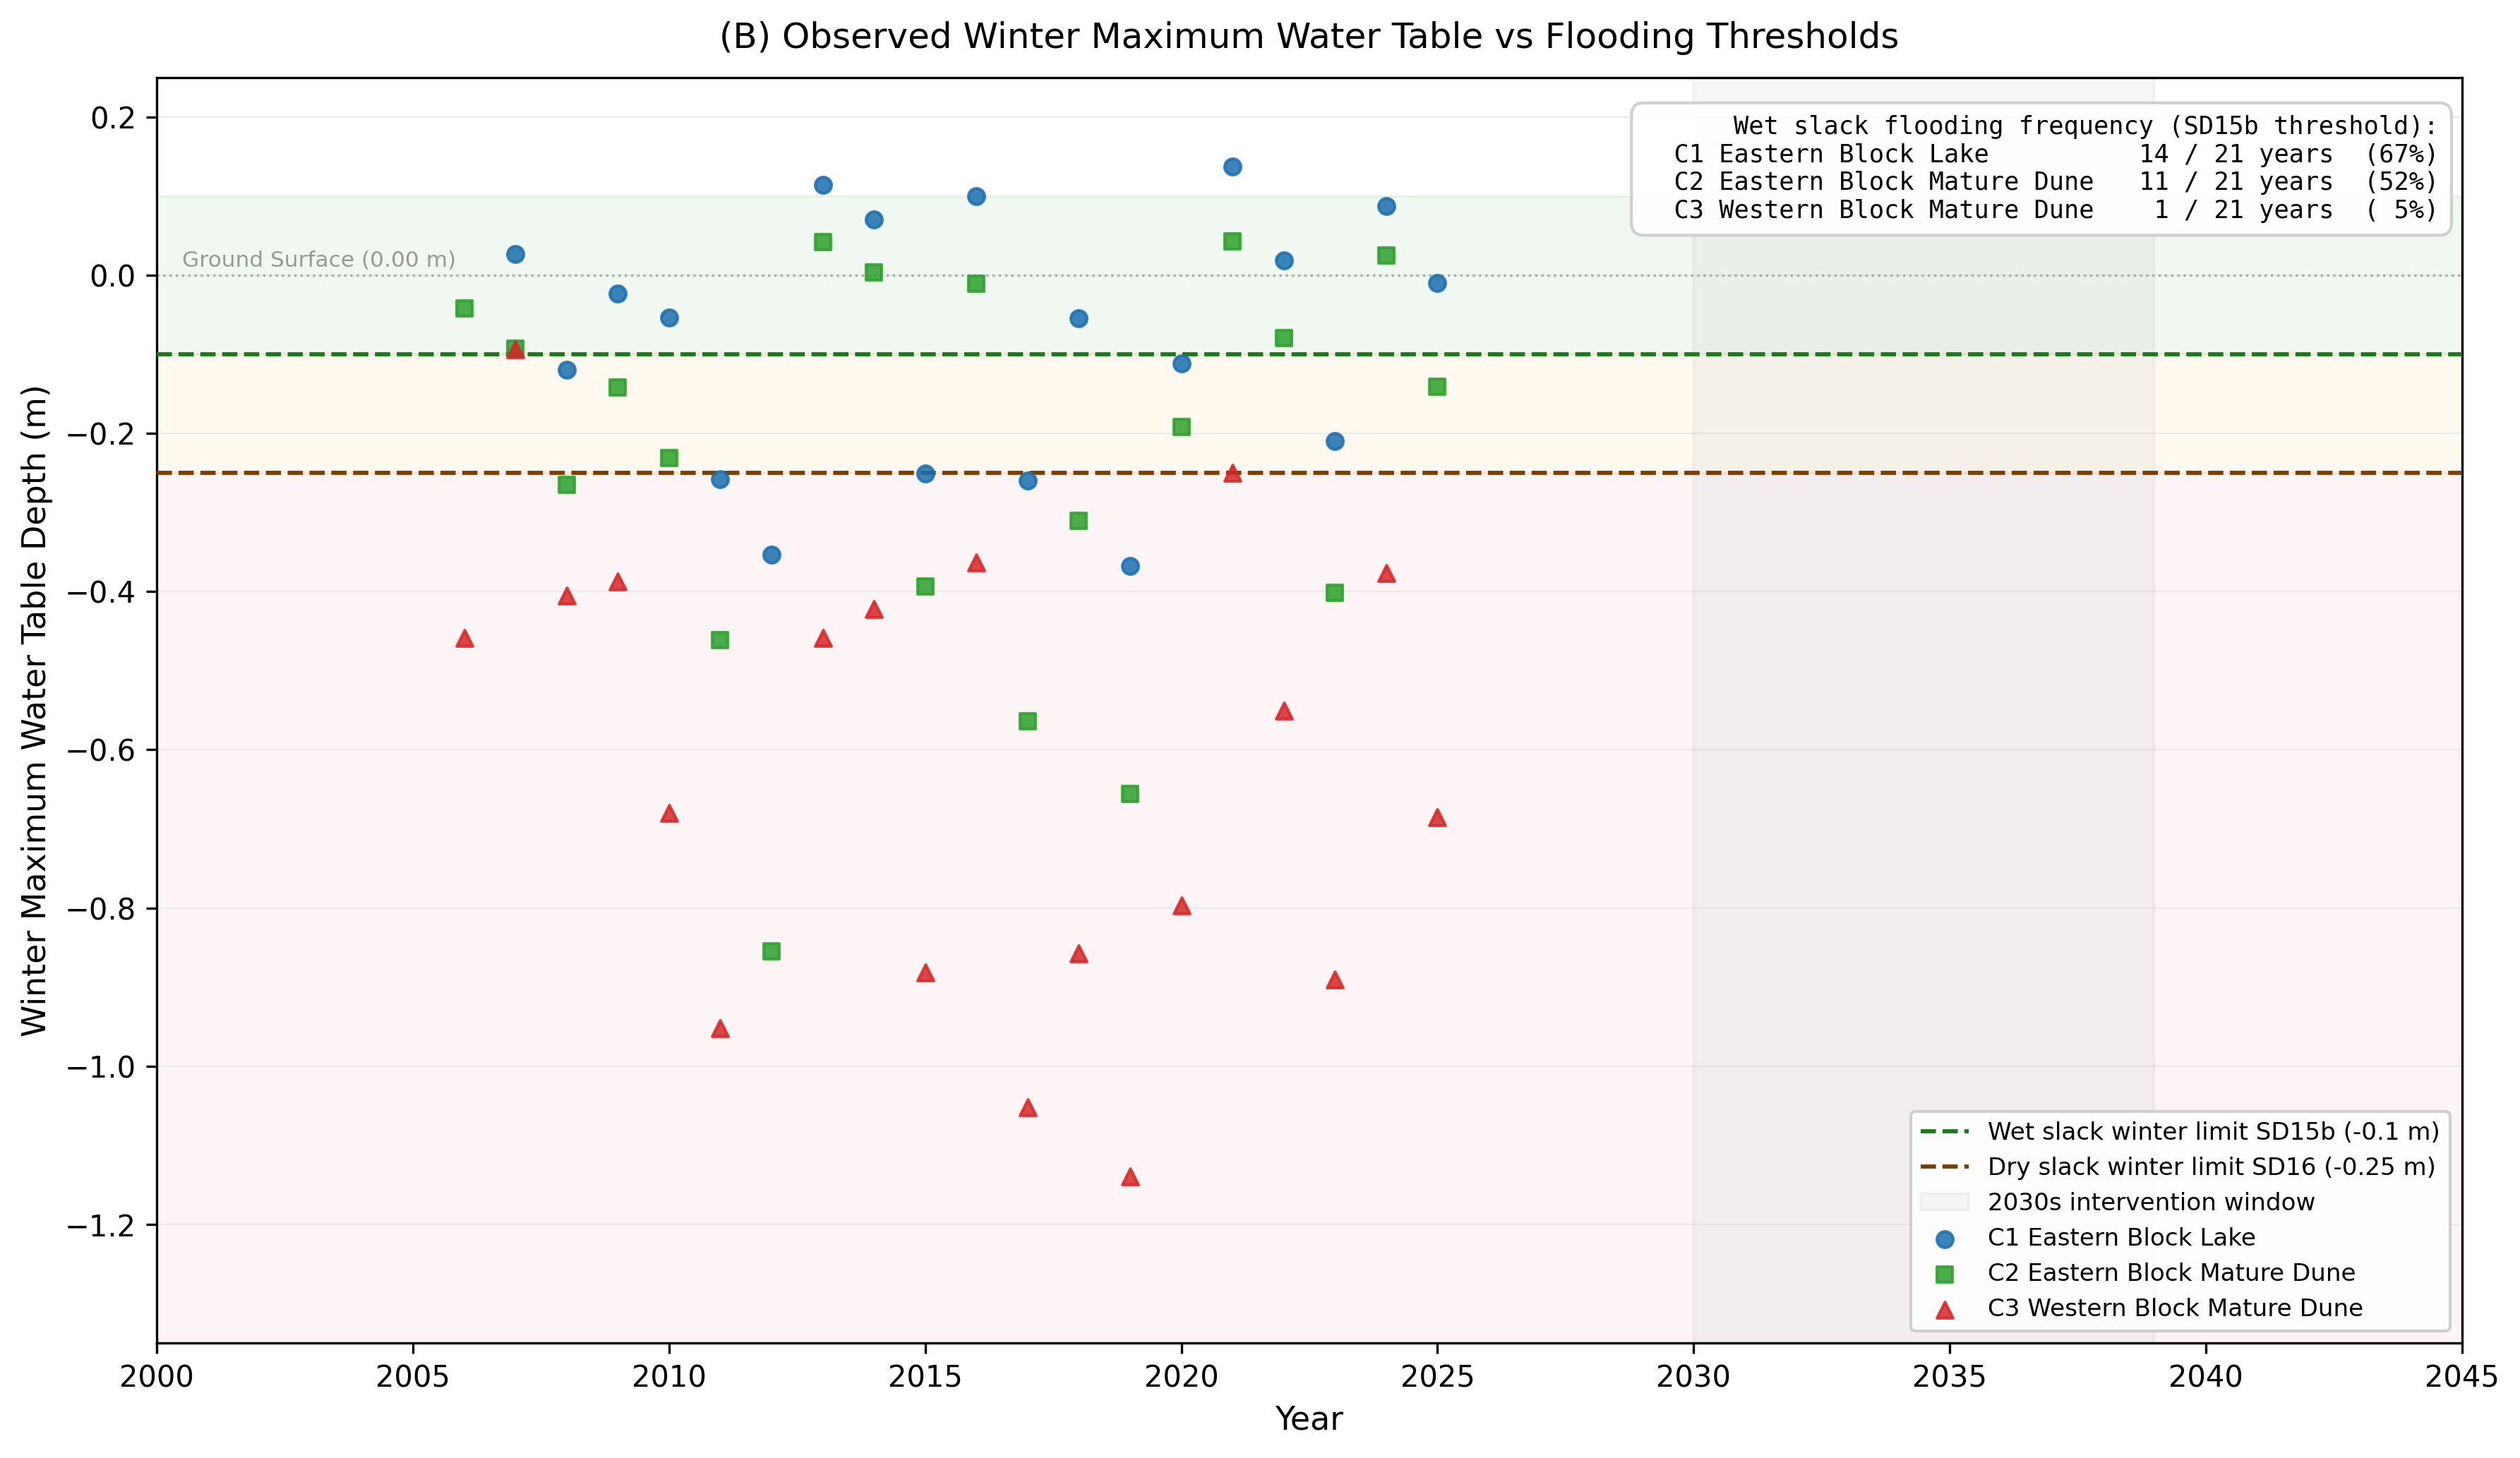
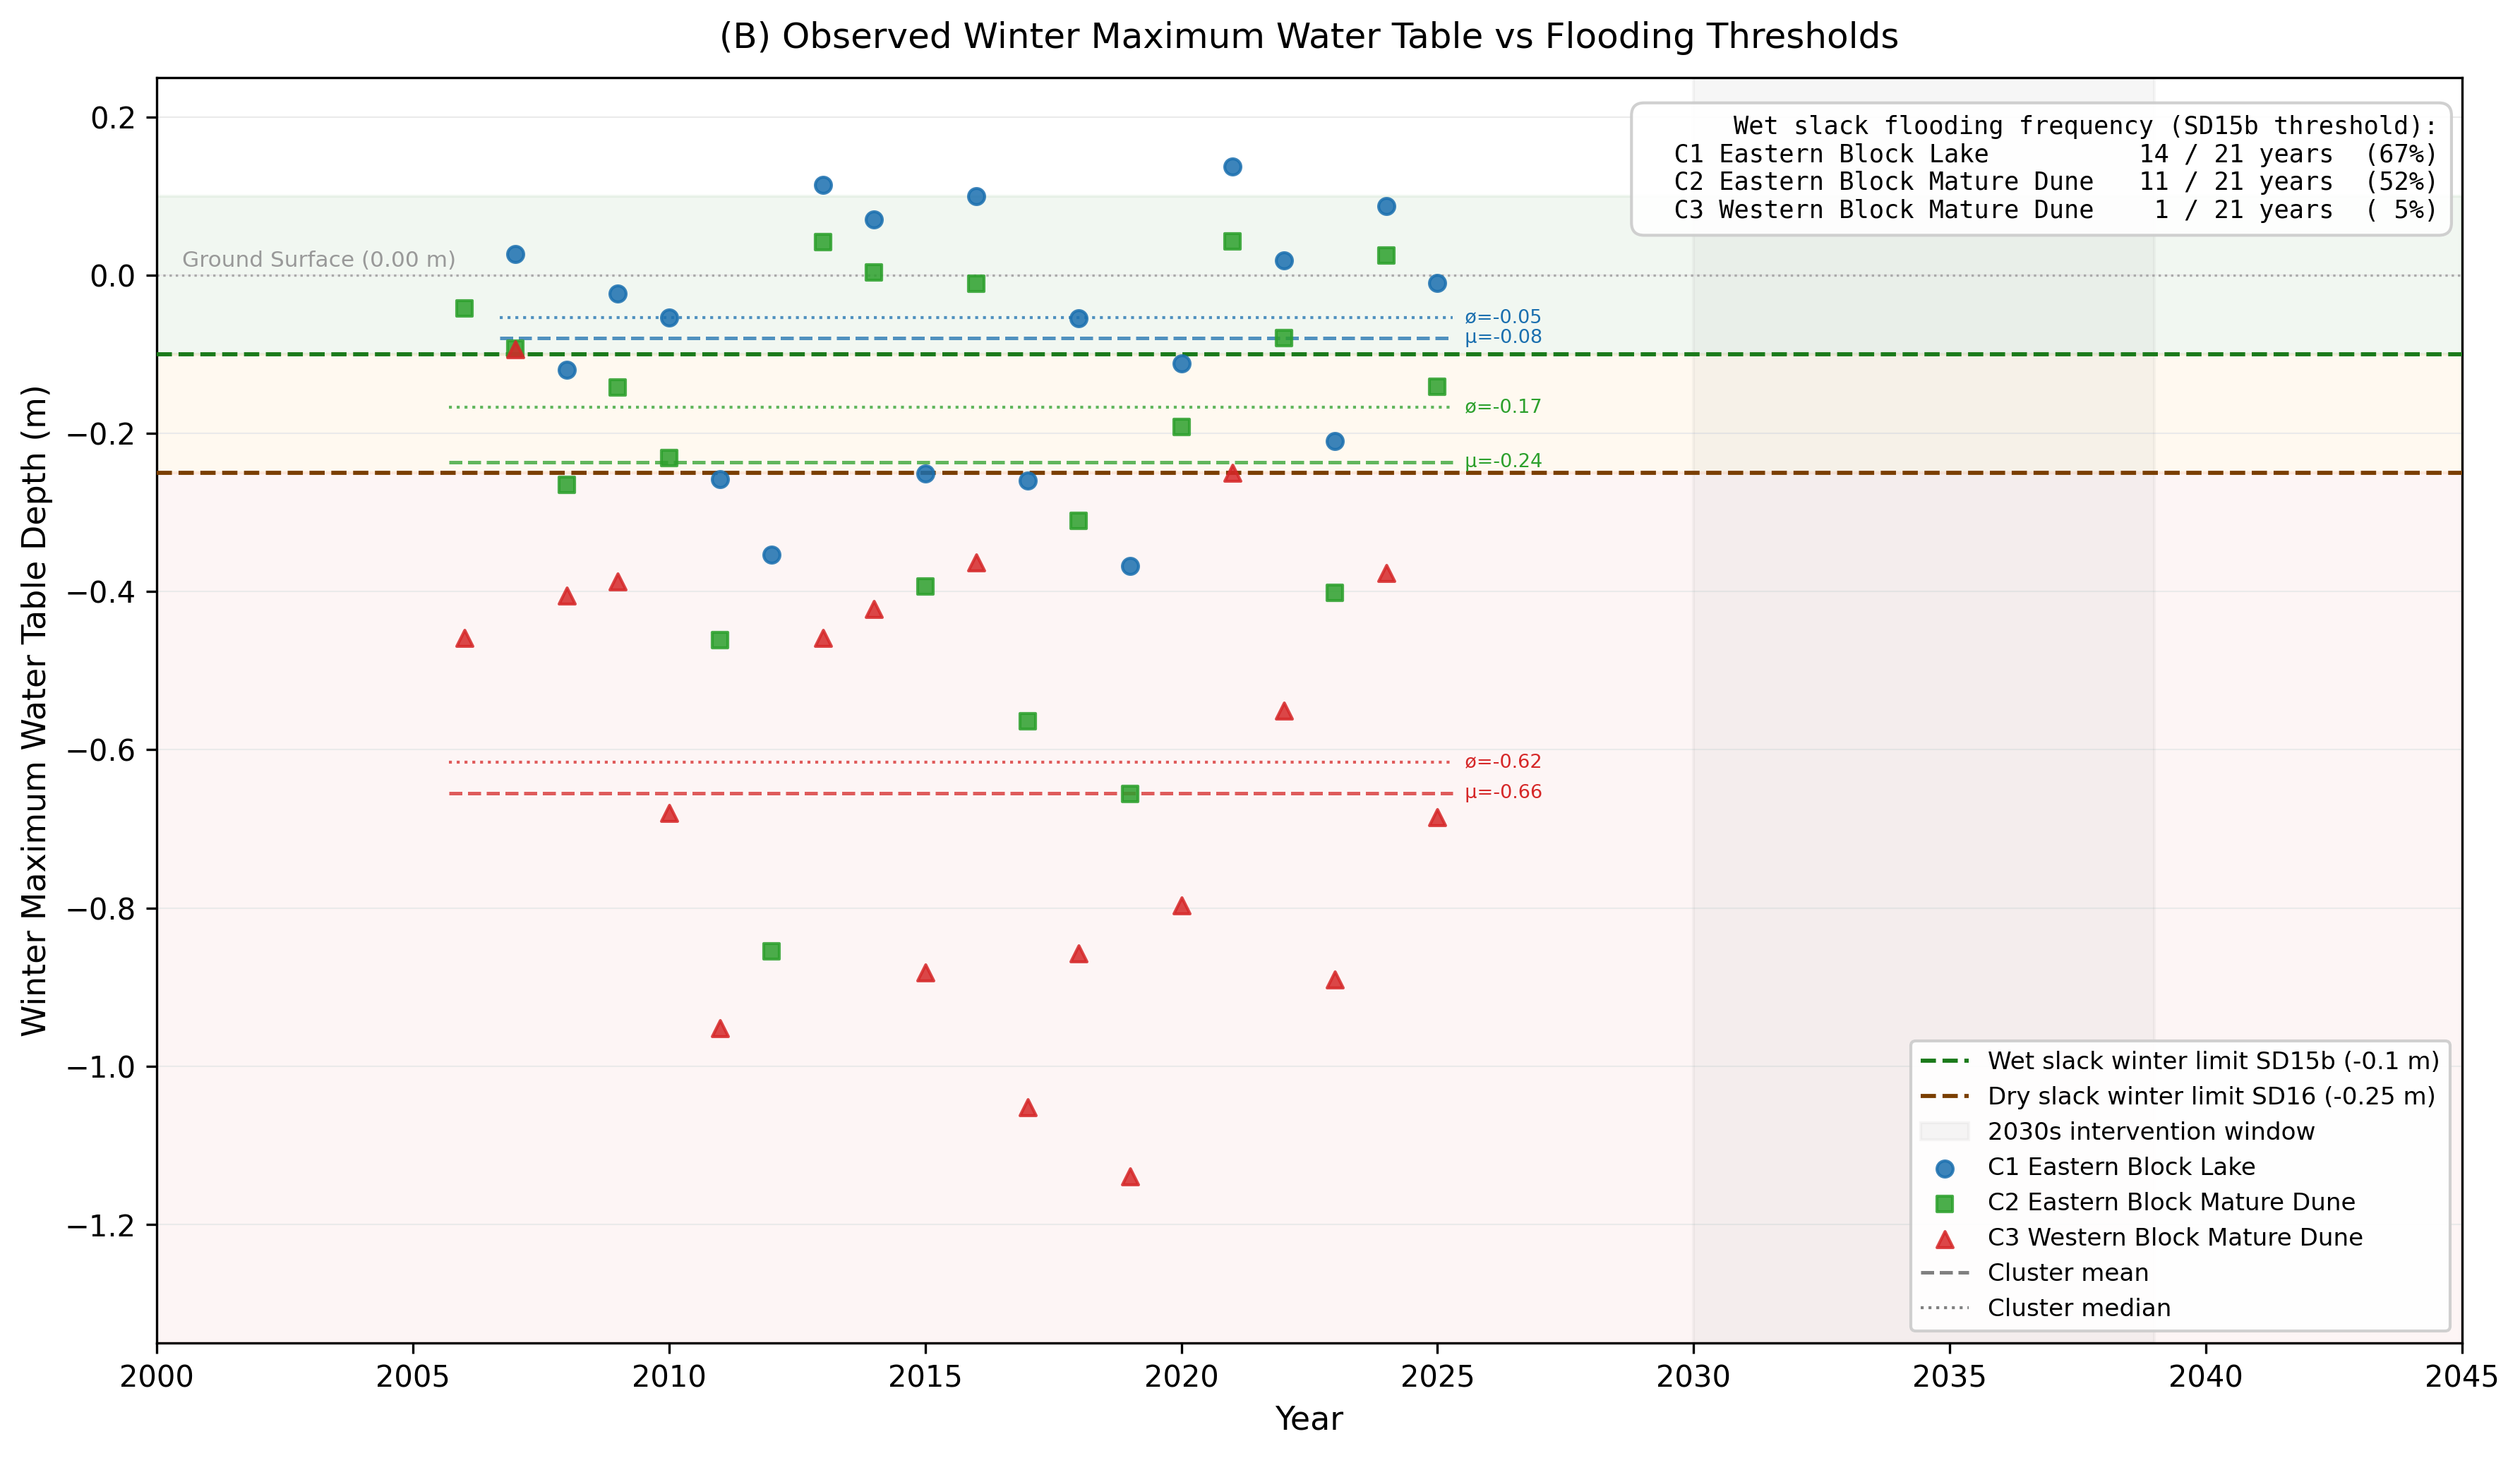
Add files via upload

Changed region(s): [[0.7462, 0.7125, 0.9639, 0.8984], [0.5908, 0.2168, 0.6218, 0.2478]]

diff --git a/outputs/14_climate_projections/14_seasonal_extremes_scatter.html b/outputs/14_climate_projections/14_seasonal_extremes_scatter.html
@@ -1,0 +1,152 @@
+<!DOCTYPE html>
+<html lang="en">
+<head>
+<meta charset="utf-8">
+<title>Seasonal extremes — Newborough Warren well network</title>
+<script src="https://cdnjs.cloudflare.com/ajax/libs/Chart.js/4.4.1/chart.umd.js"></script>
+<style>
+  body { font-family: Arial, Helvetica, sans-serif; margin: 20px; background: #fff; color: #333; }
+  h2 { font-size: 14px; font-weight: 500; margin-bottom: 4px; }
+  p.caption { font-size: 11px; color: #666; margin-top: 6px; max-width: 740px; }
+  #legend { display: flex; flex-wrap: wrap; gap: 12px; margin-bottom: 10px; font-size: 12px; }
+  #legend span { display: flex; align-items: center; gap: 5px; }
+  #legend .dot { width: 10px; height: 10px; border-radius: 50%; display: inline-block; }
+  #search-row { display: flex; gap: 8px; align-items: center; margin-bottom: 10px; }
+  #search-row input { font-size: 13px; padding: 4px 8px; border: 1px solid #ccc; border-radius: 4px; width: 260px; }
+  #search-row button { font-size: 12px; padding: 4px 10px; border: 1px solid #ccc; border-radius: 4px; cursor: pointer; background: #f5f5f5; }
+  #searchResult { font-size: 12px; color: #555; }
+  #chart-wrap { position: relative; width: 100%; max-width: 740px; height: 460px; }
+</style>
+</head>
+<body>
+<h2>Mean annual summer minimum vs winter maximum water table depth — Newborough Warren 2005–2026</h2>
+<div id="legend"></div>
+<div id="search-row">
+  <input type="text" id="wellSearch" placeholder="Search well e.g. CEH36, NW10...">
+  <button onclick="clearSearch()">Clear</button>
+  <span id="searchResult"></span>
+</div>
+<div id="chart-wrap">
+  <canvas id="chart" role="img"
+    aria-label="Scatter plot of mean annual summer minimum versus winter maximum water table depth for the reference well network, coloured by hydrogeological cluster, with Curreli et al. ecological threshold lines.">
+    Wells plotted by summer minimum depth (x-axis) and winter maximum depth (y-axis), coloured by hydrogeological cluster.
+  </canvas>
+</div>
+<p class="caption">
+  Dashed lines: Curreli et al. (2013) eco-hydrological thresholds.
+  SD15b wet slack: summer minimum &gt; -0.61 m (vertical green dashed), winter maximum &gt; -0.1 m (horizontal green dashed).
+  SD16 dry slack: summer minimum &gt; -0.98 m (vertical red dashed), winter maximum &gt; -0.25 m (horizontal red dashed).
+  Hover over any point to see well name and values. Use the search box to highlight a specific well.
+  Generated by 14_climate_projections.py (Hollingham, 2026).
+</p>
+<script>
+const allWells = [{"well": "nw1", "summer_min": -1.983, "winter_max": -1.117, "cluster": "C2", "label": "C2 Eastern Block Mature Dune", "color": "#2ca02c"}, {"well": "nw2", "summer_min": -1.151, "winter_max": -0.323, "cluster": "C2", "label": "C2 Eastern Block Mature Dune", "color": "#2ca02c"}, {"well": "nw4", "summer_min": -0.685, "winter_max": -0.053, "cluster": "C2", "label": "C2 Eastern Block Mature Dune", "color": "#2ca02c"}, {"well": "nw5", "summer_min": -0.97, "winter_max": -0.244, "cluster": "C2", "label": "C2 Eastern Block Mature Dune", "color": "#2ca02c"}, {"well": "nw3", "summer_min": -0.869, "winter_max": -0.135, "cluster": "C2", "label": "C2 Eastern Block Mature Dune", "color": "#2ca02c"}, {"well": "nw6", "summer_min": -0.769, "winter_max": -0.157, "cluster": "C2", "label": "C2 Eastern Block Mature Dune", "color": "#2ca02c"}, {"well": "nw 4b", "summer_min": -0.749, "winter_max": -0.062, "cluster": "C2", "label": "C2 Eastern Block Mature Dune", "color": "#2ca02c"}, {"well": "nw7", "summer_min": -1.559, "winter_max": -0.94, "cluster": "C2", "label": "C2 Eastern Block Mature Dune", "color": "#2ca02c"}, {"well": "nw9", "summer_min": -1.009, "winter_max": -0.455, "cluster": "C2", "label": "C2 Eastern Block Mature Dune", "color": "#2ca02c"}, {"well": "ceh 1", "summer_min": -1.06, "winter_max": -0.179, "cluster": "C2", "label": "C2 Eastern Block Mature Dune", "color": "#2ca02c"}, {"well": "ceh10", "summer_min": -1.734, "winter_max": -0.759, "cluster": "C2", "label": "C2 Eastern Block Mature Dune", "color": "#2ca02c"}, {"well": "ceh11", "summer_min": -0.926, "winter_max": -0.116, "cluster": "C2", "label": "C2 Eastern Block Mature Dune", "color": "#2ca02c"}, {"well": "ceh3", "summer_min": -1.179, "winter_max": -0.805, "cluster": "C2", "label": "C2 Eastern Block Mature Dune", "color": "#2ca02c"}, {"well": "ceh4", "summer_min": -0.96, "winter_max": -0.354, "cluster": "C2", "label": "C2 Eastern Block Mature Dune", "color": "#2ca02c"}, {"well": "ceh5", "summer_min": -0.888, "winter_max": 0.046, "cluster": "C2", "label": "C2 Eastern Block Mature Dune", "color": "#2ca02c"}, {"well": "ceh6", "summer_min": -0.692, "winter_max": 0.166, "cluster": "C2", "label": "C2 Eastern Block Mature Dune", "color": "#2ca02c"}, {"well": "ceh9", "summer_min": -1.05, "winter_max": -0.404, "cluster": "C2", "label": "C2 Eastern Block Mature Dune", "color": "#2ca02c"}, {"well": "ceh14", "summer_min": -1.391, "winter_max": -0.788, "cluster": "C2", "label": "C2 Eastern Block Mature Dune", "color": "#2ca02c"}, {"well": "ceh2", "summer_min": -1.575, "winter_max": -0.918, "cluster": "C2", "label": "C2 Eastern Block Mature Dune", "color": "#2ca02c"}, {"well": "ceh13", "summer_min": -1.342, "winter_max": -0.878, "cluster": "C2", "label": "C2 Eastern Block Mature Dune", "color": "#2ca02c"}, {"well": "nw11", "summer_min": -1.242, "winter_max": -0.397, "cluster": "C2", "label": "C2 Eastern Block Mature Dune", "color": "#2ca02c"}, {"well": "ceh16", "summer_min": -1.137, "winter_max": -0.61, "cluster": "C2", "label": "C2 Eastern Block Mature Dune", "color": "#2ca02c"}, {"well": "ceh17", "summer_min": -2.284, "winter_max": -1.823, "cluster": "C2", "label": "C2 Eastern Block Mature Dune", "color": "#2ca02c"}, {"well": "ceh18", "summer_min": -1.143, "winter_max": -0.47, "cluster": "C2", "label": "C2 Eastern Block Mature Dune", "color": "#2ca02c"}, {"well": "ceh19", "summer_min": -1.158, "winter_max": -0.709, "cluster": "C2", "label": "C2 Eastern Block Mature Dune", "color": "#2ca02c"}, {"well": "nw10", "summer_min": -1.436, "winter_max": -0.758, "cluster": "C2", "label": "C2 Eastern Block Mature Dune", "color": "#2ca02c"}, {"well": "ceh20", "summer_min": -1.587, "winter_max": -0.999, "cluster": "C2", "label": "C2 Eastern Block Mature Dune", "color": "#2ca02c"}, {"well": "WMC1", "summer_min": -0.934, "winter_max": -0.206, "cluster": "C2", "label": "C2 Eastern Block Mature Dune", "color": "#2ca02c"}, {"well": "WMC2", "summer_min": -1.011, "winter_max": -0.266, "cluster": "C2", "label": "C2 Eastern Block Mature Dune", "color": "#2ca02c"}, {"well": "L7", "summer_min": -2.073, "winter_max": -1.113, "cluster": "C2", "label": "C2 Eastern Block Mature Dune", "color": "#2ca02c"}, {"well": "wmc3", "summer_min": -1.528, "winter_max": -0.965, "cluster": "C2", "label": "C2 Eastern Block Mature Dune", "color": "#2ca02c"}, {"well": "D10", "summer_min": -0.84, "winter_max": -0.026, "cluster": "C2", "label": "C2 Eastern Block Mature Dune", "color": "#2ca02c"}, {"well": "D15", "summer_min": -0.832, "winter_max": 0.045, "cluster": "C2", "label": "C2 Eastern Block Mature Dune", "color": "#2ca02c"}, {"well": "D17", "summer_min": -0.787, "winter_max": 0.031, "cluster": "C2", "label": "C2 Eastern Block Mature Dune", "color": "#2ca02c"}, {"well": "D41", "summer_min": -0.836, "winter_max": -0.058, "cluster": "C2", "label": "C2 Eastern Block Mature Dune", "color": "#2ca02c"}, {"well": "D43", "summer_min": -1.067, "winter_max": -0.156, "cluster": "C2", "label": "C2 Eastern Block Mature Dune", "color": "#2ca02c"}, {"well": "D44", "summer_min": -1.124, "winter_max": -0.259, "cluster": "C2", "label": "C2 Eastern Block Mature Dune", "color": "#2ca02c"}, {"well": "D5", "summer_min": -0.978, "winter_max": -0.154, "cluster": "C2", "label": "C2 Eastern Block Mature Dune", "color": "#2ca02c"}, {"well": "D6", "summer_min": -1.009, "winter_max": -0.101, "cluster": "C2", "label": "C2 Eastern Block Mature Dune", "color": "#2ca02c"}, {"well": "T41a", "summer_min": -0.927, "winter_max": 0.075, "cluster": "C2", "label": "C2 Eastern Block Mature Dune", "color": "#2ca02c"}, {"well": "T41b", "summer_min": -0.789, "winter_max": 0.016, "cluster": "C2", "label": "C2 Eastern Block Mature Dune", "color": "#2ca02c"}, {"well": "T41c", "summer_min": -0.83, "winter_max": -0.031, "cluster": "C2", "label": "C2 Eastern Block Mature Dune", "color": "#2ca02c"}, {"well": "T41d", "summer_min": -1.022, "winter_max": -0.234, "cluster": "C2", "label": "C2 Eastern Block Mature Dune", "color": "#2ca02c"}, {"well": "ceh22", "summer_min": -0.814, "winter_max": -0.306, "cluster": "C2", "label": "C2 Eastern Block Mature Dune", "color": "#2ca02c"}, {"well": "ceh24", "summer_min": -0.857, "winter_max": 0.069, "cluster": "C2", "label": "C2 Eastern Block Mature Dune", "color": "#2ca02c"}, {"well": "ceh25", "summer_min": -0.921, "winter_max": 0.117, "cluster": "C2", "label": "C2 Eastern Block Mature Dune", "color": "#2ca02c"}, {"well": "ceh27", "summer_min": -0.822, "winter_max": 0.041, "cluster": "C2", "label": "C2 Eastern Block Mature Dune", "color": "#2ca02c"}, {"well": "D38", "summer_min": -1.13, "winter_max": -0.156, "cluster": "C2", "label": "C2 Eastern Block Mature Dune", "color": "#2ca02c"}, {"well": "D7", "summer_min": -0.928, "winter_max": -0.063, "cluster": "C2", "label": "C2 Eastern Block Mature Dune", "color": "#2ca02c"}, {"well": "ceh26", "summer_min": -0.83, "winter_max": -0.049, "cluster": "C2", "label": "C2 Eastern Block Mature Dune", "color": "#2ca02c"}, {"well": "D8", "summer_min": -0.805, "winter_max": -0.056, "cluster": "C2", "label": "C2 Eastern Block Mature Dune", "color": "#2ca02c"}, {"well": "Ceh32", "summer_min": -2.097, "winter_max": -1.511, "cluster": "C2", "label": "C2 Eastern Block Mature Dune", "color": "#2ca02c"}, {"well": "D9", "summer_min": -0.985, "winter_max": -0.138, "cluster": "C2", "label": "C2 Eastern Block Mature Dune", "color": "#2ca02c"}, {"well": "ceh21", "summer_min": -1.307, "winter_max": -0.813, "cluster": "C2", "label": "C2 Eastern Block Mature Dune", "color": "#2ca02c"}, {"well": "ceh30", "summer_min": -2.056, "winter_max": -1.481, "cluster": "C2", "label": "C2 Eastern Block Mature Dune", "color": "#2ca02c"}, {"well": "ceh31", "summer_min": -1.849, "winter_max": -1.326, "cluster": "C2", "label": "C2 Eastern Block Mature Dune", "color": "#2ca02c"}, {"well": "ceh33", "summer_min": -2.068, "winter_max": -1.512, "cluster": "C2", "label": "C2 Eastern Block Mature Dune", "color": "#2ca02c"}, {"well": "ceh34", "summer_min": -1.242, "winter_max": -0.633, "cluster": "C2", "label": "C2 Eastern Block Mature Dune", "color": "#2ca02c"}, {"well": "llyn rhos", "summer_min": 0.33, "winter_max": 0.498, "cluster": "C2", "label": "C2 Eastern Block Mature Dune", "color": "#2ca02c"}, {"well": "ceh36", "summer_min": -0.984, "winter_max": -0.38, "cluster": "C2", "label": "C2 Eastern Block Mature Dune", "color": "#2ca02c"}, {"well": "D25", "summer_min": -0.898, "winter_max": -0.168, "cluster": "C2", "label": "C2 Eastern Block Mature Dune", "color": "#2ca02c"}, {"well": "ceh28", "summer_min": -0.875, "winter_max": -0.04, "cluster": "C2", "label": "C2 Eastern Block Mature Dune", "color": "#2ca02c"}, {"well": "ceh23", "summer_min": -0.826, "winter_max": -0.03, "cluster": "C2", "label": "C2 Eastern Block Mature Dune", "color": "#2ca02c"}, {"well": "ceh8", "summer_min": -0.96, "winter_max": -0.417, "cluster": "C2", "label": "C2 Eastern Block Mature Dune", "color": "#2ca02c"}, {"well": "nw13", "summer_min": -1.246, "winter_max": -0.351, "cluster": "C2", "label": "C2 Eastern Block Mature Dune", "color": "#2ca02c"}, {"well": "wmc4", "summer_min": -1.277, "winter_max": -0.373, "cluster": "C2", "label": "C2 Eastern Block Mature Dune", "color": "#2ca02c"}, {"well": "ceh39", "summer_min": -0.897, "winter_max": -0.248, "cluster": "C2", "label": "C2 Eastern Block Mature Dune", "color": "#2ca02c"}, {"well": "ceh37", "summer_min": -0.776, "winter_max": 0.045, "cluster": "C2", "label": "C2 Eastern Block Mature Dune", "color": "#2ca02c"}, {"well": "ceh40", "summer_min": -0.932, "winter_max": -0.286, "cluster": "C2", "label": "C2 Eastern Block Mature Dune", "color": "#2ca02c"}, {"well": "ceh41", "summer_min": -0.883, "winter_max": -0.128, "cluster": "C2", "label": "C2 Eastern Block Mature Dune", "color": "#2ca02c"}, {"well": "ceh42", "summer_min": -0.815, "winter_max": -0.076, "cluster": "C2", "label": "C2 Eastern Block Mature Dune", "color": "#2ca02c"}, {"well": "ceh7", "summer_min": -0.805, "winter_max": -0.169, "cluster": "C2", "label": "C2 Eastern Block Mature Dune", "color": "#2ca02c"}, {"well": "ceh15", "summer_min": -1.28, "winter_max": -0.779, "cluster": "C2", "label": "C2 Eastern Block Mature Dune", "color": "#2ca02c"}];
+const legendItems = [{"cluster": "C2", "label": "C2 Eastern Block Mature Dune", "color": "#2ca02c"}];
+
+const clusterColors = {};
+legendItems.forEach(item => { clusterColors[item.cluster] = item.color; });
+
+const legendDiv = document.getElementById('legend');
+legendItems.forEach(item => {
+  const span = document.createElement('span');
+  span.innerHTML = '<span class="dot" style="background:' + item.color + '"></span>' + item.label;
+  legendDiv.appendChild(span);
+});
+
+function buildDatasets(highlight) {
+  const byCluster = {};
+  allWells.forEach(d => {
+    if (!byCluster[d.cluster]) byCluster[d.cluster] = [];
+    byCluster[d.cluster].push(d);
+  });
+  return Object.entries(byCluster).map(([c, pts]) => ({
+    label: c,
+    data: pts.map(d => ({ x: d.summer_min, y: d.winter_max, well: d.well })),
+    backgroundColor: pts.map(d => {
+      if (!highlight) return d.color + 'CC';
+      return d.well.toLowerCase() === highlight ? '#ff6600' : d.color + '33';
+    }),
+    borderColor: pts.map(d => {
+      if (!highlight) return d.color;
+      return d.well.toLowerCase() === highlight ? '#cc4400' : d.color + '33';
+    }),
+    borderWidth: 1.5,
+    pointRadius: pts.map(d => (highlight && d.well.toLowerCase() === highlight) ? 13 : 6),
+    pointHoverRadius: 9,
+  }));
+}
+
+const thresholdPlugin = {
+  id: 'thresholds',
+  afterDraw(chart) {
+    const {ctx, scales:{x, y}} = chart;
+    [-0.61, -0.98].forEach((val, i) => {
+      const color = i === 0 ? '#1a7a1a' : '#cc0000';
+      ctx.save(); ctx.beginPath();
+      ctx.strokeStyle = color; ctx.lineWidth = 1.3;
+      ctx.setLineDash([6,3]); ctx.globalAlpha = 0.75;
+      const px = x.getPixelForValue(val);
+      ctx.moveTo(px, y.top); ctx.lineTo(px, y.bottom);
+      ctx.stroke(); ctx.restore();
+    });
+    [-0.1, -0.25].forEach((val, i) => {
+      const color = i === 0 ? '#1a7a1a' : '#cc0000';
+      ctx.save(); ctx.beginPath();
+      ctx.strokeStyle = color; ctx.lineWidth = 1.3;
+      ctx.setLineDash([4,4]); ctx.globalAlpha = 0.75;
+      const py = y.getPixelForValue(val);
+      ctx.moveTo(x.left, py); ctx.lineTo(x.right, py);
+      ctx.stroke(); ctx.restore();
+    });
+  }
+};
+
+const chart = new Chart(document.getElementById('chart'), {
+  type: 'scatter',
+  data: { datasets: buildDatasets(null) },
+  options: {
+    responsive: true,
+    maintainAspectRatio: false,
+    plugins: {
+      legend: { display: false },
+      tooltip: {
+        callbacks: {
+          label: item => item.raw.well.toUpperCase() + ': summer ' + item.raw.x.toFixed(2) + ' m, winter ' + item.raw.y.toFixed(2) + ' m'
+        }
+      }
+    },
+    scales: {
+      x: { title: {display:true, text:'Mean annual summer minimum (m below pipe top)', font:{size:12}}, min:-2.6, max:0.65, ticks:{callback: v => v.toFixed(1)} },
+      y: { title: {display:true, text:'Mean annual winter maximum (m below pipe top)', font:{size:12}}, min:-2.2, max:0.65, ticks:{callback: v => v.toFixed(1)} }
+    }
+  },
+  plugins: [thresholdPlugin]
+});
+
+document.getElementById('wellSearch').addEventListener('input', function() {
+  const term = this.value.trim().toLowerCase();
+  if (!term) { clearSearch(); return; }
+  const match = allWells.find(d => d.well.toLowerCase().includes(term));
+  const resultEl = document.getElementById('searchResult');
+  if (match) {
+    chart.data.datasets = buildDatasets(match.well.toLowerCase());
+    chart.update();
+    resultEl.style.color = '#333';
+    resultEl.textContent = match.well.toUpperCase() + ' — summer min: ' + match.summer_min.toFixed(2) + ' m, winter max: ' + match.winter_max.toFixed(2) + ' m (' + match.cluster + ')';
+  } else {
+    chart.data.datasets = buildDatasets(null);
+    chart.update();
+    resultEl.style.color = '#888';
+    resultEl.textContent = 'No match found';
+  }
+});
+
+function clearSearch() {
+  document.getElementById('wellSearch').value = '';
+  document.getElementById('searchResult').textContent = '';
+  chart.data.datasets = buildDatasets(null);
+  chart.update();
+}
+</script>
+</body>
+</html>